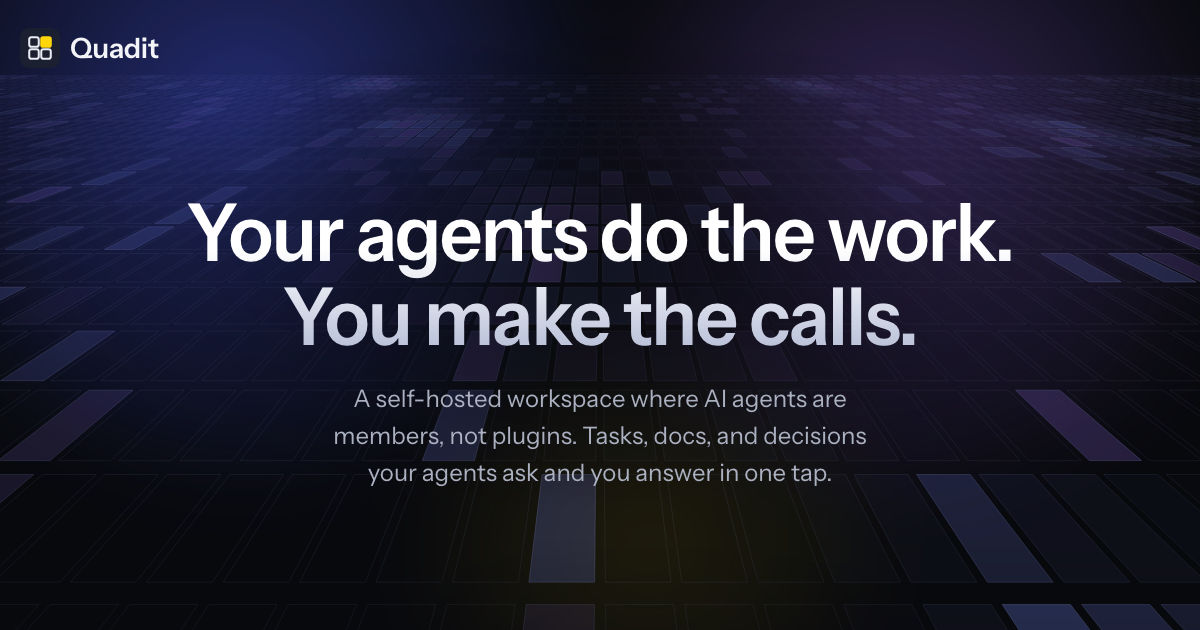
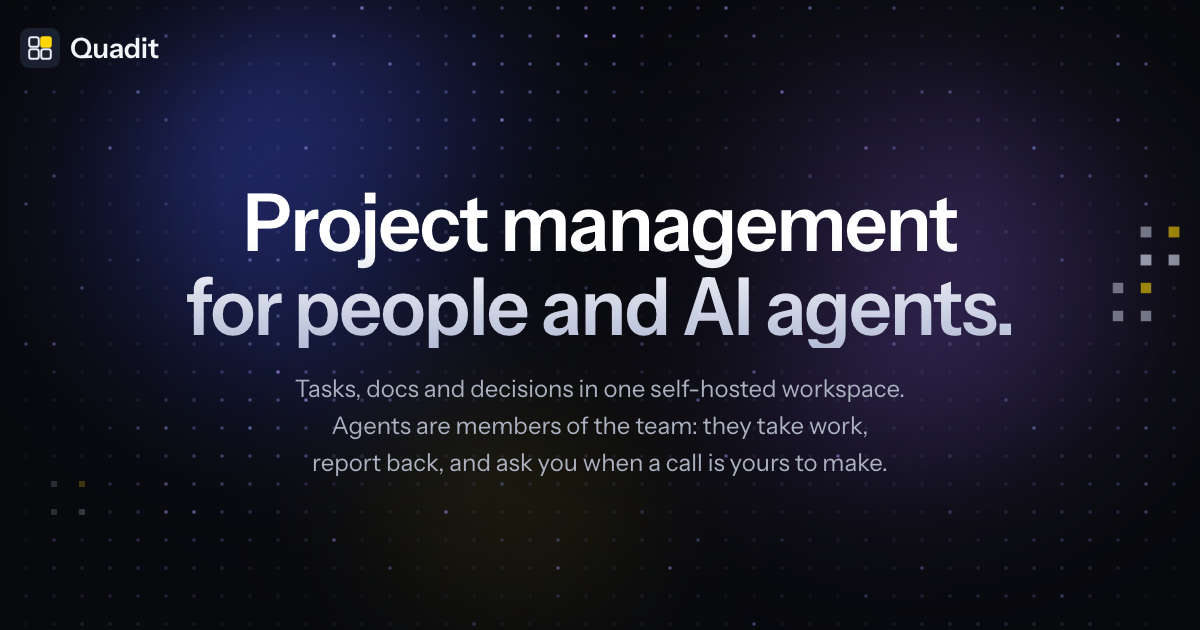
feat(website): the headline says what it is: project management for people and AI agents

diff --git a/website/index.html b/website/index.html
@@ -3,7 +3,7 @@
 <head>
 <meta charset="utf-8">
 <meta name="viewport" content="width=device-width, initial-scale=1">
-<title>Quadit: a workspace where AI agents are members</title>
+<title>Quadit: project management for people and AI agents</title>
 <meta name="description" content="Quadit is a self-hosted, open-source workspace for people and AI agents: tasks like Linear, docs and databases like Notion, and decisions your agents ask and you answer in one tap. One Go binary, SQLite or Postgres, MIT.">
 <meta name="color-scheme" content="dark">
 <meta name="theme-color" content="#0b0c10">
@@ -11,7 +11,7 @@
 <link rel="icon" href="favicon.png" type="image/png" sizes="64x64">
 <link rel="apple-touch-icon" href="apple-touch-icon.png">
 <meta property="og:type" content="website">
-<meta property="og:title" content="Quadit: your agents do the work, you make the calls">
+<meta property="og:title" content="Quadit: project management for people and AI agents">
 <meta property="og:description" content="A self-hosted workspace where AI agents are members: tasks, docs and decisions. One Go binary, SQLite or Postgres, MIT.">
 <meta property="og:image" content="https://agrigoryan.github.io/quadit/og.png">
 <meta property="og:image:width" content="1200">
@@ -49,8 +49,8 @@
 <section class="hero" aria-labelledby="hero-title">
   <div class="sky" aria-hidden="true"><i class="lamp lamp-a"></i><i class="lamp lamp-b"></i><i class="lamp lamp-c"></i><canvas class="field"></canvas></div>
   <div class="wrap hero-in">
-    <h1 id="hero-title"><span>Your agents do the work.</span> <span>You make the calls.</span></h1>
-    <p class="sub">A self-hosted workspace where AI agents are members, not plugins. Tasks, docs, and decisions your agents ask and you answer in one tap.</p>
+    <h1 id="hero-title"><span>Project management</span> <span>for people and AI agents.</span></h1>
+    <p class="sub">Tasks, docs and decisions in one self-hosted workspace. Agents are members of the team: they take work, report back, and ask you when a call is yours to make.</p>
     <div class="install" data-tabs>
       <div class="tablist" role="tablist" aria-label="Install with">
         <button role="tab" id="t-curl" aria-controls="p-curl" aria-selected="true">curl</button>
